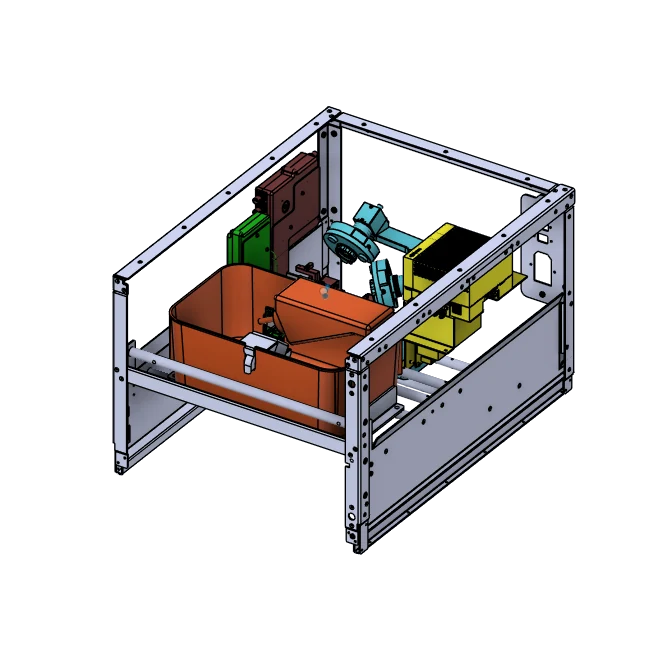
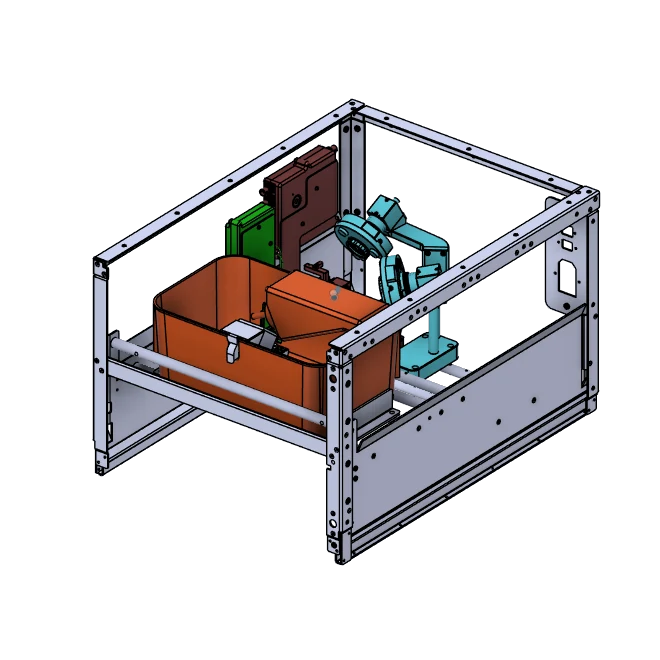
Fix build animation framing at both ends
The shipped animation opened on a frame filling 1% of the canvas: one
corner leg, off centre. Two independent causes.

Staggering the 14 frame-stage parts across the first 6% of the timeline
meant frame 0 held exactly one leg. Frame 0 is the at-rest state a
scroll-driven figure sits on, so it has to be composed. The skeleton now
shares one window and arrives together.

And the camera fit was computed with every occurrence forced visible,
which turned the normally-hidden 65cm CAN harnesses back on. Measured
fitted extents 109.4 with them versus 80.1 without: a 37% inflation that
shrank the subject to 20% of frame. The fit now snapshots isLightBulbOn
and respects it. Three occurrences are natively hidden in this model and
must stay so: both CAN harnesses and blower_holder_shifted.

Camera extents are also held near 1.0 across the path; the old keyframes
zoomed out at both ends, which is what made them read unfocused.

Frame 0 goes from 1% fill to 68%, the final frame from 43% and off-centre
to 53% centred at (0.51, 0.51), nothing touching an edge. Verified in the
browser: 40 distinct frames across a 40-step sweep, 0 off-grid.

Caught and fixed a regression while regenerating: the sprite CSS lost its
background-size line, which is exactly the desync this file was meant to
prevent. Re-added, verified 1000% 1000% computed.

Also records, for the next pass: the part-number to material mapping the
owner confirmed, and that pellet gantry stage membership must be explicit
[…]

Changed region(s): [[0.1212, 0.1515, 0.9091, 0.8788]]

diff --git a/src/rig-buildup.css b/src/rig-buildup.css
@@ -1,10 +1,9 @@
 /* GENERATED by the sprite build step. Do not hand-edit.
-   100 frames, 10 x 10 grid, cell 660 x 660 (square: uncropped canvas).
-   background-size lives HERE, not in spa.css: a grid change that did not
-   update it silently mis-registered every cell once already. */
-
+   100 frames, 10x10 grid, cell 660x660 (square: uncropped canvas).
+   .rig-figure must keep aspect-ratio 1/1 to match the cell.
+   step-end holds each frame until the next keyframe. */
 .rig-figure.is-live {
-  background-size: 1000% 1000%;
+  background-size: 1000% 1000%; /* 10 columns x 10 rows */
 }
 
 @keyframes rig-buildup {

diff --git a/docs/fusion-animation-pipeline.md b/docs/fusion-animation-pipeline.md
@@ -371,6 +371,78 @@ Safer shape for a retry:
   preserving.
 - Fewer bodies: filter to components above a minimum size first, then order.
 
+### Framing: fit on what is ACTUALLY VISIBLE
+
+The shipped build animation opened on a frame filling **1%** of the canvas: a
+single corner leg, off centre. Two independent causes, both worth remembering.
+
+**1. Do not stagger the opening stage.** Jittering the 14 frame-stage parts
+across the first 6% of the timeline meant frame 0 contained exactly one leg.
+Frame 0 is the at-rest state a scroll-driven figure sits on, so it has to be a
+composed image. All skeleton parts now share one window and arrive together.
+
+**2. Fit the camera on the model's NATIVE visibility.** Forcing every
+occurrence visible in order to compute the fit turns the normally-hidden
+**65 cm CAN harnesses** back on. Measured: fitted extents 109.4 with them on
+versus **80.1** with them off, a 37% inflation that shrank the subject to 20%
+of frame. Snapshot `isLightBulbOn` first, fit against that, and never assume
+"everything on" is the widest legitimate silhouette.
+
+Three occurrences are natively hidden in this model and must stay that way:
+`50916-CAN Bus Harness LONG-00`, `50915-CAN Bus Harness SHORT-00`,
+`blower_holder_shifted`.
+
+Result: frame 0 went from 1% fill to **68%**, the final frame from 43% and
+off-centre to **53% centred at (0.51, 0.51)**, with no frame touching an edge.
+Camera extents are also held near 1.0 across the whole path now; the previous
+keyframes zoomed out at both ends, which is what made both ends read as
+unfocused.
+
+### Part-number families map cleanly to materials
+
+Confirmed with the owner. Useful for colour-accurate renders:
+
+| Family | Kind | Render as |
+|---|---|---|
+| `1xxxx` | sub-assemblies | (container, no appearance) |
+| `2xxxx`, `3xxxx` | sheet metal, machined | light grey |
+| `4xxxx`, `7xxxx` | press-fit hardware, fasteners | polished steel |
+| `5xxxx` | purchased COTS | per part (servo black, magnet silver, rail steel) |
+| `6xxxx` | 3D printed | black |
+| `8xxxx` | PCB | green |
+
+Appearances already present in the design and usable without touching the
+material libraries: `Black`, `Anodized - Light Gray`, `Aluminum - Polished`,
+`Dark Green`, `Rubber - Black`, `Polycarbonate - Clear`, `Smooth - Light
+Orange`, `Cadet Blue`, `Canary`, `Chestnut`.
+
+### Pellet gantry: membership is explicit, never by height
+
+The owner confirmed the mechanism is a **nested gantry**: the Y carriage carries
+the X rail, which carries the Z rail, which carries the spoon. Frames are rigid
+*within* a stage but the stages stack.
+
+Height tiering gets this wrong and must not be used. `60598-X_frame` sits at
+Y=10.1 but is bolted to the **Y** carriage and carries the X rail, so it rides
+Y, not X. The same error repeats one level up with `60597-Yframe`. Correct
+membership:
+
+```
+FIXED     60590-Base_Pla, 50793-SSEB6-55_MAX x2, 60591-Pellet_Vat (the bucket
+          does not move), Pellet PCB Mounting Assy, base stepper, base limits
+RIDES Y   50793-SSEB6-55_SLIDE_MAX, 60598-X_frame_vmettetal, 50857-SSEB8-55
+          (the X rail), the stepper driving X
+RIDES X   50857-SSEB8-55_Slide_Carriage (the Y=10.0 instance),
+          60597-Yframe_vmettetal, 50857-SSEB8-55_Z-DEFAULT, stepper driving Z
+RIDES Z   50857-SSEB8-55_Slide_Carriage (the Y=14.0 instance),
+          60599-Pellet_Spoon_Table, 60600-Food_Cap, 50919-KPower P0025 Servo,
+          60670-Pellet Z Hard Stop, 60596-Servo_Mount, 50799-Limit Switch 90
+```
+
+Duplicate component names (two slide carriages, three steppers) are
+disambiguated by bbox centre height, which is the only legitimate use of height
+here.
+
 ### MCP timeout does not mean the script failed
 
 The 48-frame run returned `Request timed out` to the client, but Fusion kept
